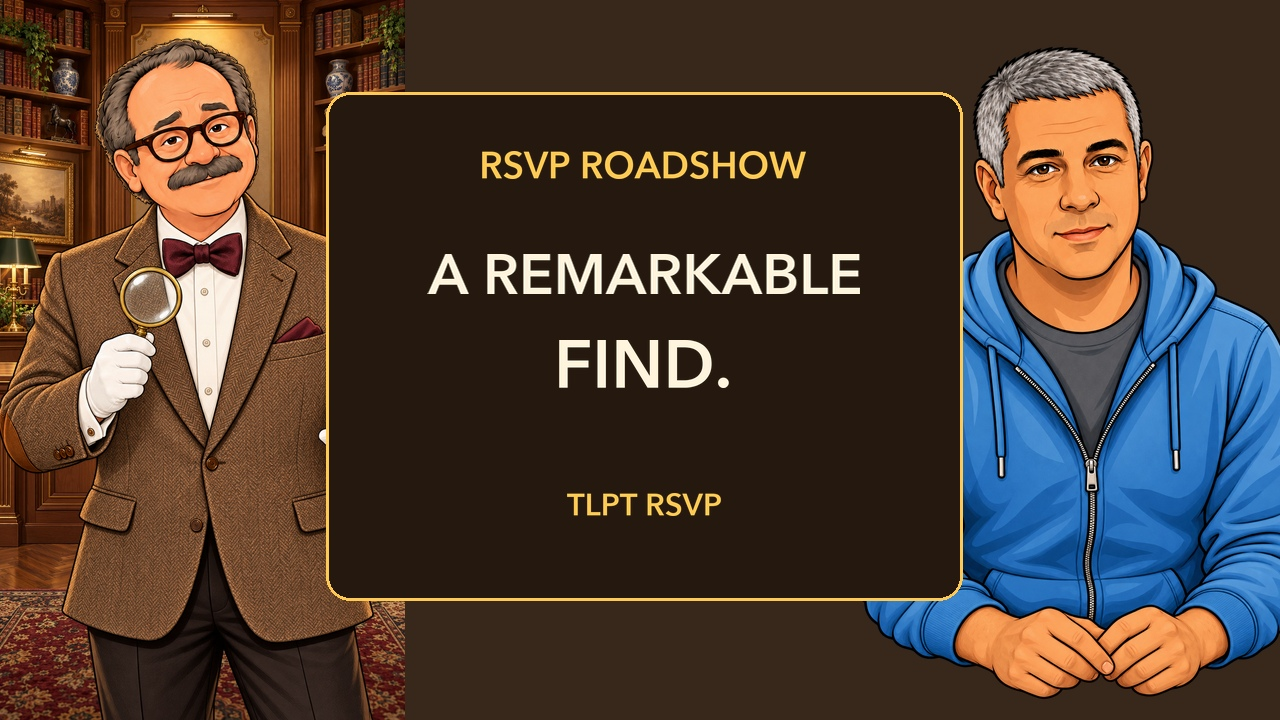
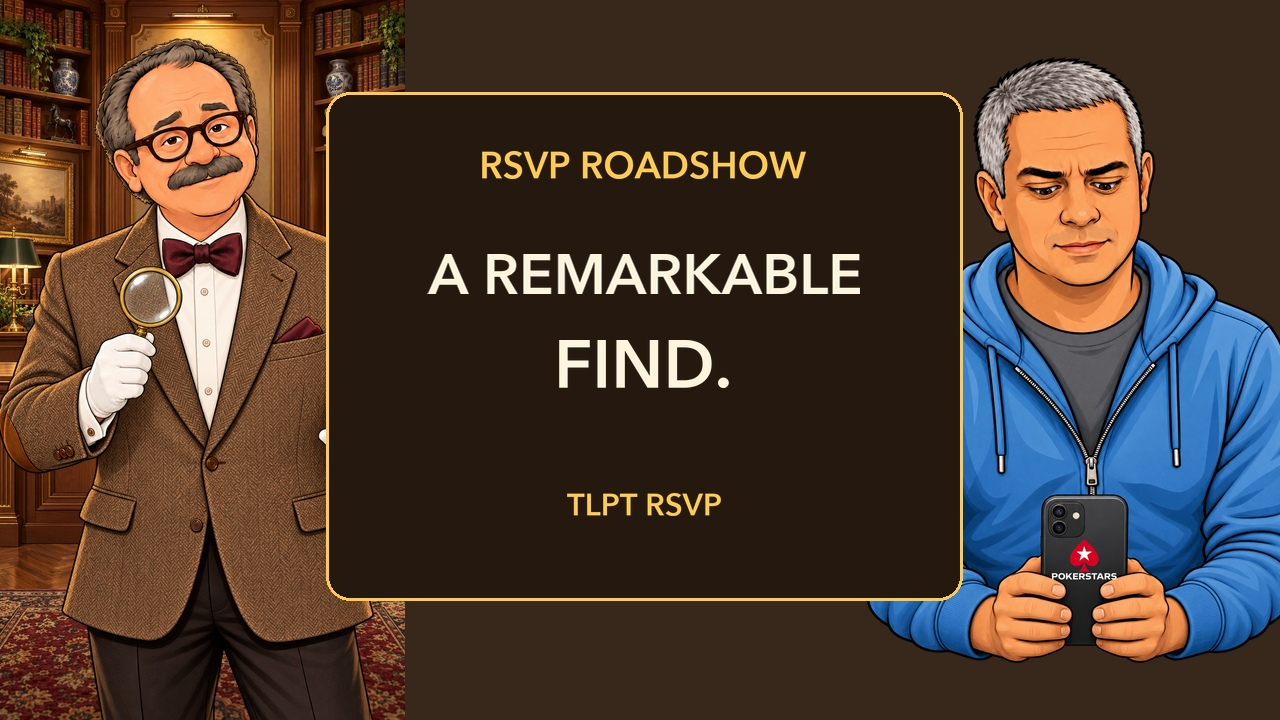
Replace RSVP Roadshow with approved PokerStars phone revision

Changed region(s): [[0.6562, 0.6111, 1.0, 0.9778], [0.75, 0.0611, 1.0, 0.4583]]

diff --git a/media.html b/media.html
@@ -159,8 +159,8 @@
           <div class="media-frame">
             <div class="media-embed-wrap">
               <iframe
-                src="https://www.youtube.com/embed/9Cmli_tTMSg?playsinline=1"
-                data-thumbnail="media/rsvp-film-room/rsvp-roadshow-thumbnail.jpg?v=9c7e96b5cb6ed79f"
+                src="https://www.youtube.com/embed/MvwsaPIq9-8?playsinline=1"
+                data-thumbnail="media/rsvp-film-room/rsvp-roadshow-thumbnail.jpg?v=b4b5e180aa2aa0ad"
                 title="RSVP Roadshow"
                 loading="lazy"
                 referrerpolicy="strict-origin-when-cross-origin"

diff --git a/MAINTENANCE-RUNBOOK.md b/MAINTENANCE-RUNBOOK.md
@@ -408,7 +408,12 @@ Amazing Norm — Saturday Canceled (`PjiZafNM4Xs`, `hat-polish-v2`),
 Now Showing (`i17yME1Az2o`, Box Office `notification-border-v3`),
 Sunday Special Bulletin (`HweZPs_q85U`, `orange-mic-jacket-avatar-v6`),
 Who Wants to Make a Decision? (`Ij45B2zhMY4`, game show `production-v1`),
-and RSVP Roadshow (`9Cmli_tTMSg`, `expressions-round-avatar-v2`).
+and RSVP Roadshow (revised November 4 to `MvwsaPIq9-8`, `pokerstars-phone-v3`).
+The revised Roadshow shows Ahmed holding the PokerStars phone. Replace its film
+in place: keep the existing card position/title and use that revision's exact
+`thumbnail-1280x720.jpg` for the Film Room and `thumbnail-portrait.jpg` for the
+Norm Gallery. Update both checksum/version references and the Gallery video ID;
+do not retain the superseded upload in public embeds or add a duplicate card.
 The two cancellation styles are separate films, not duplicate versions to replace.
 The owner's file labeled Saturday cancellation v1 is the generic A Heavy Heart
 news export; preserve that actual title/artwork rather than inventing a Saturday
